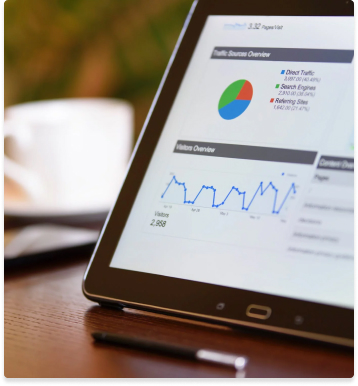
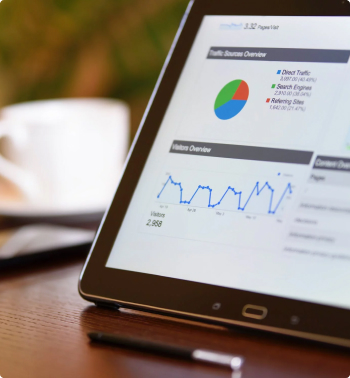
Fixed some bugs and updated styles for about us

diff --git a/docs/css/styles.min.css b/docs/css/styles.min.css
@@ -1,3 +1,3 @@
-@font-face{font-family:WorkSans;font-display:swap;src:url("../fonts/WorkSans/WorkSans-Light.woff") format("woff"),url("../fonts/WorkSans/WorkSans-Light.woff2") format("woff2"),url("../fonts/WorkSans/WorkSans-Light.ttf") format("truetype");font-weight:300}@font-face{font-family:WorkSans;font-display:swap;src:url("../fonts/WorkSans/WorkSans-Regular.woff") format("woff"),url("../fonts/WorkSans/WorkSans-Regular.woff2") format("woff2"),url("../fonts/WorkSans/WorkSans-Regular.ttf") format("truetype");font-weight:400}@font-face{font-family:WorkSans;font-display:swap;src:url("../fonts/WorkSans/WorkSans-Medium.woff") format("woff"),url("../fonts/WorkSans/WorkSans-Medium.woff2") format("woff2"),url("../fonts/WorkSans/WorkSans-Medium.ttf") format("truetype");font-weight:500}@font-face{font-family:WorkSans;font-display:swap;src:url("../fonts/WorkSans/WorkSans-SemiBold.woff") format("woff"),url("../fonts/WorkSans/WorkSans-SemiBold.woff2") format("woff2"),url("../fonts/WorkSans/WorkSans-SemiBold.ttf") format("truetype");font-weight:600}@font-face{font-family:WorkSans;font-display:swap;src:url("../fonts/WorkSans/WorkSans-Bold.woff") format("woff"),url("../fonts/WorkSans/WorkSans-Bold.woff2") format("woff2"),url("../fonts/WorkSans/WorkSans-Bold.ttf") format("truetype");font-weight:700}@font-face{font-family:Montserrat;font-display:swap;src:url("../fonts/Montserrat/Montserrat-Bold.woff") format("woff"),url("../fonts/Montserrat/Montserrat-Bold.woff2") format("woff2"),url("../fonts/Montserrat/Montserrat-Bold.ttf") format("truetype");font-weight:700}*,*:after,*:before{margin:0;padding:0;-webkit-box-sizing:border-box;box-sizing:border-box}body{margin:0;padding-bottom:33.64286em;min-height:100vh;font-size:14px;position:relative;line-height:1.85714em;font-family:'WorkSans', 'Roboto', 'Arial', sans-serif}@media only screen and (max-width: 1023px){body{padding-bottom:35.64286em}}@media only screen and (max-width: 767px){body{padding-bottom:33.28571em}}@media only screen and (max-width: 748px){body{padding-bottom:35.21429em}}@media only screen and (max-width: 710px){body{padding-bottom:42.07143em}}@media only screen and (max-width: 575px){body{padding-bottom:33.21429em}}@media only screen and (max-width: 530px){body{padding-bottom:34.5em}}.wrapper{display:-webkit-box;display:-webkit-flex;display:-ms-flexbox;display:flex;-webkit-box-align:center;-webkit-align-items:center;-ms-flex-align:center;align-items:center;-webkit-box-orient:horizontal;-webkit-box-direction:normal;-webkit-flex-flow:row wrap;-ms-flex-flow:row wrap;flex-flow:row wrap;max-width:81.42857em;-webkit-box-pack:justify;-webkit-justify-content:space-between;-ms-flex-pack:justify;justify-content:space-between;padding-right:1.07143em;padding-left:1.07143em;margin-left:auto;margin-right:auto}@media only screen and (max-width: 1199px){.wrapper{max-width:68.57143em}}@media only screen and (max-width: 1023px){.wrapper{max-width:51.42857em}}@media only screen and (max-width: 767px){.wrapper{max-width:100%}}.wrapper--upper-footer{padding-top:5.85714em;padding-bottom:5.85714em}@media only screen and (max-width: 710px){.wrapper--upper-footer{padding-top:2.85714em;padding-bottom:2.85714em}}@media only screen and (max-width: 575px){.wrapper--upper-footer{padding-top:0;padding-bottom:0}}.wrapper--bottom-footer{padding-top:1.42857em;padding-bottom:1.42857em;display:-webkit-box;display:-webkit-flex;display:-ms-flexbox;display:flex;-webkit-box-pack:justify;-webkit-justify-content:space-between;-ms-flex-pack:justify;justify-content:space-between}@media only screen and (max-width: 1023px){.wrapper--bottom-footer{-webkit-box-pack:center;-webkit-justify-content:center;-ms-flex-pack:center;justify-content:center;text-align:center}}img{max-width:100%;line-height:0}a{color:#fff;position:relative;text-decoration:none}a:before{width:0;height:2px;content:"";display:block;position:absolute;background-color:#2595fe;bottom:-.71429em;left:0;-webkit-transition-duration:.4s;-o-transition-duration:.4s;transition-duration:.4s;-webkit-transition-property:width;-o-transition-property:width;transition-property:width;-webkit-transition-timing-function:ease-in-out;-o-transition-timing-function:ease-in-out;transition-timing-function:ease-in-out}a:hover{text-decoration:none}a:hover:before{width:100%}ul,ol{padding-left:0;display:-webkit-box;display:-webkit-flex;display:-ms-flexbox;display:flex;list-style:none;-webkit-box-align:center;-webkit-align-items:center;-ms-flex-align:center;align-items:center;-webkit-box-orient:horizontal;-webkit-box-direction:normal;-webkit-flex-flow:row nowrap;-ms-flex-flow:row nowrap;flex-flow:row nowrap;-webkit-box-pack:center;-webkit-justify-content:center;-ms-flex-pack:center;justify-content:center}button{border:0;cursor:pointer;background-color:transparent}button:focus{outline:0}.button{background-color:#2595fe;border-radius:4px;-webkit-transition-duration:.4s;-o-transition-duration:.4s;transition-duration:.4s;-webkit-transition-property:background-color;-o-transition-property:background-color;transition-property:background-color;-webkit-transition-timing-function:ease-in-out;-o-transition-timing-function:ease-in-out;transition-timing-function:ease-in-out}.button:hover{background-color:#218bed}input,textarea,select,button{font:inherit}.sr-only{border:0;width:1px;padding:0;height:1px;margin:-1px;overflow:hidden;position:absolute;clip:rect(0 0 0 0)}.title{margin-top:0;margin-bottom:0;font-weight:500;text-transform:uppercase}.title--site-links,.title--subscribe,.title--location{font-size:1.28571em;margin-bottom:1em;color:#fff;letter-spacing:.00833em}@media only screen and (max-width: 575px){.title--site-links,.title--subscribe,.title--location{text-align:center;margin-bottom:.55556em}}.bg--dark{background-color:#242424}.bg--more-dark{background-color:#1a1a1a}header{position:relative}@media only screen and (max-width: 767px){header .wrapper{padding-top:1.42857em;padding-bottom:1.42857em}}footer{position:absolute;bottom:0;left:0;right:0}footer .footer-list{width:100%;-webkit-box-align:baseline;-webkit-align-items:baseline;-ms-flex-align:baseline;align-items:baseline;-webkit-box-pack:justify;-webkit-justify-content:space-between;-ms-flex-pack:justify;justify-content:space-between}@media only screen and (max-width: 710px){footer .footer-list{-webkit-flex-wrap:wrap;-ms-flex-wrap:wrap;flex-wrap:wrap;-webkit-box-pack:justify;-webkit-justify-content:space-between;-ms-flex-pack:justify;justify-content:space-between}footer .footer-list__item:nth-child(2){-webkit-box-ordinal-group:2;-webkit-order:1;-ms-flex-order:1;order:1;text-align:center;width:100%;margin-top:1.42857em}}@media only screen and (max-width: 575px){footer .footer-list{-webkit-box-orient:horizontal;-webkit-box-direction:normal;-webkit-flex-direction:row;-ms-flex-direction:row;flex-direction:row;-webkit-flex-wrap:wrap;-ms-flex-wrap:wrap;flex-wrap:wrap}footer .footer-list__item{width:100%;padding-top:.71429em;padding-bottom:.71429em}footer .footer-list__item:nth-child(2){margin-top:0}footer .footer-list__item:not(:first-child){border-top:1px solid #383838}}.logo-link{color:inherit;line-height:0}.logo-link:before{display:none}.logo-link__pic{max-width:13.35714em;height:6.07143em}@media only screen and (max-width: 767px){.logo-link__pic{max-width:8.57143em;height:1.14286em}}.nav__burger{display:none}@media only screen and (max-width: 767px){.nav__burger{display:inline-block;position:relative;width:2.14286em;height:1.14286em}.nav__burger:before{margin-top:-7px}.nav__burger:after{margin-top:5px}.nav__burger:before,.nav__burger:after{content:'';position:absolute;-webkit-transition:-webkit-transform .3s ease-in-out;transition:-webkit-transform .3s ease-in-out;-o-transition:transform .3s ease-in-out;transition:transform .3s ease-in-out;transition:transform .3s ease-in-out, -webkit-transform .3s ease-in-out}.nav__burger span,.nav__burger:before,.nav__burger:after{width:100%;height:2px;display:block;background-color:#fff}.nav__burger--active{width:2.14286em;height:1.14286em}.nav__burger--active span{display:none}.nav__burger--active:before{-webkit-transform:rotate(45deg);-ms-transform:rotate(45deg);transform:rotate(45deg)}.nav__burger--active:after{-webkit-transform:rotate(-45deg);-ms-transform:rotate(-45deg);transform:rotate(-45deg)}.nav__burger--active:before,.nav__burger--active:after{margin-top:0}}.nav__list{line-height:1.85714em}@media only screen and (max-width: 767px){.nav{line-height:0}}.list__item{font-size:1.28571em}.list__item:not(:last-child){margin-right:1.11111em}@media only screen and (max-width: 767px){.list__item{width:100%}.list__item:not(:last-child){margin-right:0}}.list__link{padding:0}.list__link:before{bottom:-.71429em}@media only screen and (max-width: 767px){.list__link{display:-webkit-box;display:-webkit-flex;display:-ms-flexbox;display:flex;width:100%;-webkit-box-pack:center;-webkit-justify-content:center;-ms-flex-pack:center;justify-content:center;padding:.55556em;border:1px solid #242424;-webkit-transition:background-color .3s ease-in-out;-o-transition:background-color .3s ease-in-out;transition:background-color .3s ease-in-out}.list__link:hover,.list__link--active{background-color:#242424;border:1px solid #1a1a1a}.list__link:before{display:none}}@media only screen and (max-width: 767px){.list{position:absolute;top:100%;left:-100%;width:100%;background-color:#1a1a1a;-webkit-box-orient:vertical;-webkit-box-direction:normal;-webkit-flex-flow:column nowrap;-ms-flex-flow:column nowrap;flex-flow:column nowrap;-webkit-box-pack:start;-webkit-justify-content:flex-start;-ms-flex-pack:start;justify-content:flex-start;-webkit-transition:left .3s ease-in-out;-o-transition:left .3s ease-in-out;transition:left .3s ease-in-out}.list--active{left:0}}.footer-list__item .nav{width:100%}.footer-list__item .nav__burger{display:none}.footer-list__item .nav__list{line-height:0}.footer-list__item .list{position:static;display:-webkit-inline-box;display:-webkit-inline-flex;display:-ms-inline-flexbox;display:inline-flex;-webkit-box-orient:vertical;-webkit-box-direction:normal;-webkit-flex-direction:column;-ms-flex-direction:column;flex-direction:column;background-color:transparent;-webkit-justify-content:space-around;-ms-flex-pack:distribute;justify-content:space-around;-webkit-box-align:start;-webkit-align-items:flex-start;-ms-flex-align:start;align-items:flex-start}@media only screen and (max-width: 575px){.footer-list__item .list{-webkit-box-orient:horizontal;-webkit-box-direction:normal;-webkit-flex-direction:row;-ms-flex-direction:row;flex-direction:row;-webkit-box-align:baseline;-webkit-align-items:baseline;-ms-flex-align:baseline;align-items:baseline;-webkit-box-pack:justify;-webkit-justify-content:space-between;-ms-flex-pack:justify;justify-content:space-between}}.footer-list__item .list__item{font-size:1em;width:auto}.footer-list__item .list__item:not(:last-child){margin-bottom:2.14286em;margin-right:0}@media only screen and (max-width: 575px){.footer-list__item .list__item:not(:last-child){margin-bottom:0}}.footer-list__item .list__link{display:inline-block;width:auto;border:0;padding:0;line-height:1;color:#fff;-webkit-transition:color .3s ease-in-out;-o-transition:color .3s ease-in-out;transition:color .3s ease-in-out}.footer-list__item .list__link:hover,.footer-list__item .list__link--active{color:#2595fe}.footer-list__item .list__link:hover{background-color:transparent;border:0}.footer-list__item .list__link:before{display:none}.subscribe__field{color:#242424;border-radius:4px;max-width:18.21429em;width:100%;padding:.64286em 1.07143em}.subscribe__field.placeholder{opacity:1;-webkit-transition:opacity .3s ease-in-out;-o-transition:opacity .3s ease-in-out;transition:opacity .3s ease-in-out}.subscribe__field:-moz-placeholder{opacity:1;-moz-transition:opacity .3s ease-in-out;transition:opacity .3s ease-in-out}.subscribe__field::-moz-placeholder{opacity:1;-moz-transition:opacity .3s ease-in-out;transition:opacity .3s ease-in-out}.subscribe__field:-ms-input-placeholder{opacity:1;-ms-transition:opacity .3s ease-in-out;transition:opacity .3s ease-in-out}.subscribe__field::-webkit-input-placeholder{opacity:1;-webkit-transition:opacity .3s ease-in-out;transition:opacity .3s ease-in-out}.subscribe__field:focus{outline:0}.subscribe__field:focus.placeholder{opacity:0}.subscribe__field:focus:-moz-placeholder{opacity:0}.subscribe__field:focus::-moz-placeholder{opacity:0}.subscribe__field:focus:-ms-input-placeholder{opacity:0}.subscribe__field:focus::-webkit-input-placeholder{opacity:0}@media only screen and (max-width: 575px){.subscribe__field{font-size:.78571em;padding:.27273em;margin:0 auto;display:block}}.subscribe__submit{font-size:1.28571em;max-width:14.16667em;width:100%;color:#fff;margin-top:1.88889em;padding-top:.61111em;padding-bottom:.61111em;letter-spacing:.00833em}@media only screen and (max-width: 710px){.subscribe__submit{margin-top:1.11111em}}@media only screen and (max-width: 575px){.subscribe__submit{font-size:1em;padding-top:.35714em;padding-bottom:.35714em;display:block;margin:1.42857em auto 0}}@media only screen and (max-width: 1023px){.subscribe{display:-webkit-box;display:-webkit-flex;display:-ms-flexbox;display:flex;-webkit-box-orient:vertical;-webkit-box-direction:normal;-webkit-flex-direction:column;-ms-flex-direction:column;flex-direction:column;-webkit-box-align:center;-webkit-align-items:center;-ms-flex-align:center;align-items:center;-webkit-box-pack:center;-webkit-justify-content:center;-ms-flex-pack:center;justify-content:center}}.location__address{font-size:1em;line-height:1.85714em;letter-spacing:.01071em;color:#fff;margin-bottom:2.5em}@media only screen and (max-width: 575px){.location__address{text-align:center;margin-bottom:.71429em}}.location__socials-list{display:-webkit-box;display:-webkit-flex;display:-ms-flexbox;display:flex;-webkit-box-align:baseline;-webkit-align-items:baseline;-ms-flex-align:baseline;align-items:baseline;-webkit-box-pack:start;-webkit-justify-content:flex-start;-ms-flex-pack:start;justify-content:flex-start}@media only screen and (max-width: 575px){.location__socials-list{-webkit-box-pack:center;-webkit-justify-content:center;-ms-flex-pack:center;justify-content:center}}.socials-list__item:not(:last-child){margin-right:1.28571em}.socials-list__link:before{display:none}.socials-list .icon{width:1.71429em;height:1.71429em;cursor:pointer;-webkit-transition:color .3s ease-in-out;-o-transition:color .3s ease-in-out;transition:color .3s ease-in-out}.socials-list .icon:hover{color:#2595fe}.copyright{font-size:.85714em;line-height:1.5em;color:#fff}@media only screen and (max-width: 1023px){.copyright{-webkit-box-ordinal-group:2;-webkit-order:1;-ms-flex-order:1;order:1;margin-top:.83333em}}.links-list__item:not(:last-child){margin-right:1.78571em;position:relative}.links-list__item:not(:last-child):after{content:"";display:block;position:absolute;height:1em;width:1px;background-color:#fff;right:-1em;top:50%;-webkit-transform:translateY(-50%);-ms-transform:translateY(-50%);transform:translateY(-50%)}.links-list__url{font-size:.85714em;-webkit-transition:color .3s ease-in-out;-o-transition:color .3s ease-in-out;transition:color .3s ease-in-out}.links-list__url:hover{color:#2595fe}.links-list__url:before{display:none}.to-top{position:fixed;right:1.42857em;bottom:-25vh;background-color:#242424;border-radius:50%;width:3.85714em;height:3.85714em;border:1px solid #fff;-webkit-transition:bottom .8s ease-in-out, opacity .3s ease-in-out;-o-transition:bottom .8s ease-in-out, opacity .3s ease-in-out;transition:bottom .8s ease-in-out, opacity .3s ease-in-out}.to-top:hover{opacity:.7;background-color:#242424}.to-top--active{bottom:1.42857em}.icon--to-top{width:2.07143em;height:1em;color:#fff}.about-us{padding-top:8.57143em;padding-bottom:12.78571em}.about-us__info{max-width:35em}.about-us__photo{max-width:25em}@media only screen and (max-width: 1023px){.about-us__photo{margin-bottom:1.07143em}}@media only screen and (max-width: 1023px){.about-us{text-align:center;-webkit-box-pack:center;-webkit-justify-content:center;-ms-flex-pack:center;justify-content:center;padding-top:5.71429em;padding-bottom:5.71429em}}@media only screen and (max-width: 575px){.about-us{padding-top:2.85714em;padding-bottom:2.85714em}}.info{margin-right:2.14286em}.info__title{font-size:2.57143em;margin-bottom:1.38889em}@media only screen and (max-width: 1023px){.info__title{margin-bottom:.41667em}}@media only screen and (max-width: 575px){.info__title{font-size:1.71429em;margin-bottom:.625em}}.info__desc{line-height:2.28571em;letter-spacing:.01071em;color:#242424;font-weight:300}@media only screen and (max-width: 575px){.info__desc{font-size:.85714em;line-height:2em}}@media only screen and (max-width: 1023px){.info{-webkit-box-ordinal-group:2;-webkit-order:1;-ms-flex-order:1;order:1}}
+@font-face{font-family:WorkSans;font-display:swap;src:url("../fonts/WorkSans/WorkSans-Light.woff") format("woff"),url("../fonts/WorkSans/WorkSans-Light.woff2") format("woff2"),url("../fonts/WorkSans/WorkSans-Light.ttf") format("truetype");font-weight:300}@font-face{font-family:WorkSans;font-display:swap;src:url("../fonts/WorkSans/WorkSans-Regular.woff") format("woff"),url("../fonts/WorkSans/WorkSans-Regular.woff2") format("woff2"),url("../fonts/WorkSans/WorkSans-Regular.ttf") format("truetype");font-weight:400}@font-face{font-family:WorkSans;font-display:swap;src:url("../fonts/WorkSans/WorkSans-Medium.woff") format("woff"),url("../fonts/WorkSans/WorkSans-Medium.woff2") format("woff2"),url("../fonts/WorkSans/WorkSans-Medium.ttf") format("truetype");font-weight:500}@font-face{font-family:WorkSans;font-display:swap;src:url("../fonts/WorkSans/WorkSans-SemiBold.woff") format("woff"),url("../fonts/WorkSans/WorkSans-SemiBold.woff2") format("woff2"),url("../fonts/WorkSans/WorkSans-SemiBold.ttf") format("truetype");font-weight:600}@font-face{font-family:WorkSans;font-display:swap;src:url("../fonts/WorkSans/WorkSans-Bold.woff") format("woff"),url("../fonts/WorkSans/WorkSans-Bold.woff2") format("woff2"),url("../fonts/WorkSans/WorkSans-Bold.ttf") format("truetype");font-weight:700}@font-face{font-family:Montserrat;font-display:swap;src:url("../fonts/Montserrat/Montserrat-Bold.woff") format("woff"),url("../fonts/Montserrat/Montserrat-Bold.woff2") format("woff2"),url("../fonts/Montserrat/Montserrat-Bold.ttf") format("truetype");font-weight:700}*{margin:0;padding:0;-webkit-box-sizing:border-box;box-sizing:border-box}body{margin:0;padding-bottom:33.64286em;min-height:100vh;font-size:14px;position:relative;line-height:1.85714em;font-family:'WorkSans', 'Roboto', 'Arial', sans-serif}@media only screen and (max-width: 1023px){body{padding-bottom:35.64286em}}@media only screen and (max-width: 767px){body{padding-bottom:33.28571em}}@media only screen and (max-width: 748px){body{padding-bottom:35.21429em}}@media only screen and (max-width: 710px){body{padding-bottom:42.07143em}}@media only screen and (max-width: 575px){body{padding-bottom:33.21429em}}@media only screen and (max-width: 530px){body{padding-bottom:34.5em}}.wrapper{display:-webkit-box;display:-webkit-flex;display:-ms-flexbox;display:flex;-webkit-box-align:center;-webkit-align-items:center;-ms-flex-align:center;align-items:center;-webkit-box-orient:horizontal;-webkit-box-direction:normal;-webkit-flex-flow:row wrap;-ms-flex-flow:row wrap;flex-flow:row wrap;max-width:81.42857em;-webkit-box-pack:justify;-webkit-justify-content:space-between;-ms-flex-pack:justify;justify-content:space-between;padding-right:1.07143em;padding-left:1.07143em;margin-left:auto;margin-right:auto}@media only screen and (max-width: 1199px){.wrapper{max-width:68.57143em}}@media only screen and (max-width: 1023px){.wrapper{max-width:51.42857em}}@media only screen and (max-width: 767px){.wrapper{max-width:100%}}.wrapper--upper-footer{padding-top:5.85714em;padding-bottom:5.85714em}@media only screen and (max-width: 710px){.wrapper--upper-footer{padding-top:2.85714em;padding-bottom:2.85714em}}@media only screen and (max-width: 575px){.wrapper--upper-footer{padding-top:0;padding-bottom:0}}.wrapper--bottom-footer{padding-top:1.42857em;padding-bottom:1.42857em;display:-webkit-box;display:-webkit-flex;display:-ms-flexbox;display:flex;-webkit-box-pack:justify;-webkit-justify-content:space-between;-ms-flex-pack:justify;justify-content:space-between}@media only screen and (max-width: 1023px){.wrapper--bottom-footer{-webkit-box-pack:center;-webkit-justify-content:center;-ms-flex-pack:center;justify-content:center;text-align:center}}img{max-width:100%}a{color:#fff;position:relative;text-decoration:none}a:before{width:0;height:2px;content:"";display:block;position:absolute;background-color:#2595fe;bottom:-.71429em;left:0;-webkit-transition-duration:.4s;-o-transition-duration:.4s;transition-duration:.4s;-webkit-transition-property:width;-o-transition-property:width;transition-property:width;-webkit-transition-timing-function:ease-in-out;-o-transition-timing-function:ease-in-out;transition-timing-function:ease-in-out}a:hover{text-decoration:none}a:hover:before{width:100%}ul,ol{padding-left:0;display:-webkit-box;display:-webkit-flex;display:-ms-flexbox;display:flex;list-style:none;-webkit-box-align:center;-webkit-align-items:center;-ms-flex-align:center;align-items:center;-webkit-box-orient:horizontal;-webkit-box-direction:normal;-webkit-flex-flow:row nowrap;-ms-flex-flow:row nowrap;flex-flow:row nowrap;-webkit-box-pack:center;-webkit-justify-content:center;-ms-flex-pack:center;justify-content:center}button{border:0;cursor:pointer;background-color:transparent}button:focus{outline:0}.button{background-color:#2595fe;border-radius:4px;-webkit-transition-duration:.4s;-o-transition-duration:.4s;transition-duration:.4s;-webkit-transition-property:background-color;-o-transition-property:background-color;transition-property:background-color;-webkit-transition-timing-function:ease-in-out;-o-transition-timing-function:ease-in-out;transition-timing-function:ease-in-out}.button:hover{background-color:#218bed}input,textarea,select,button{font:inherit}.sr-only{border:0;width:1px;padding:0;height:1px;margin:-1px;overflow:hidden;position:absolute;clip:rect(0 0 0 0)}.title{margin-top:0;margin-bottom:0;font-weight:500;text-transform:uppercase}.title--site-links,.title--subscribe,.title--location{font-size:1.28571em;margin-bottom:1em;color:#fff;letter-spacing:.00833em}@media only screen and (max-width: 575px){.title--site-links,.title--subscribe,.title--location{text-align:center;margin-bottom:.55556em}}.bg--dark{background-color:#242424}.bg--more-dark{background-color:#1a1a1a}header{position:relative}@media only screen and (max-width: 767px){header .wrapper{padding-top:1.42857em;padding-bottom:1.42857em}}footer{position:absolute;bottom:0;left:0;right:0}footer .footer-list{width:100%;-webkit-box-align:baseline;-webkit-align-items:baseline;-ms-flex-align:baseline;align-items:baseline;-webkit-box-pack:justify;-webkit-justify-content:space-between;-ms-flex-pack:justify;justify-content:space-between}@media only screen and (max-width: 710px){footer .footer-list{-webkit-flex-wrap:wrap;-ms-flex-wrap:wrap;flex-wrap:wrap;-webkit-box-pack:justify;-webkit-justify-content:space-between;-ms-flex-pack:justify;justify-content:space-between}footer .footer-list__item:nth-child(2){-webkit-box-ordinal-group:2;-webkit-order:1;-ms-flex-order:1;order:1;text-align:center;width:100%;margin-top:1.42857em}}@media only screen and (max-width: 575px){footer .footer-list{-webkit-box-orient:horizontal;-webkit-box-direction:normal;-webkit-flex-direction:row;-ms-flex-direction:row;flex-direction:row;-webkit-flex-wrap:wrap;-ms-flex-wrap:wrap;flex-wrap:wrap}footer .footer-list__item{width:100%;padding-top:.71429em;padding-bottom:.71429em}footer .footer-list__item:nth-child(2){margin-top:0}footer .footer-list__item:not(:first-child){border-top:1px solid #383838}}.logo-link{color:inherit;line-height:0}.logo-link:before{display:none}.logo-link__pic{max-width:13.35714em;height:6.07143em}@media only screen and (max-width: 767px){.logo-link__pic{max-width:8.57143em;height:1.14286em}}.nav__burger{display:none}@media only screen and (max-width: 767px){.nav__burger{display:inline-block;position:relative;width:2.14286em;height:1.14286em}.nav__burger:before{margin-top:-7px}.nav__burger:after{margin-top:5px}.nav__burger:before,.nav__burger:after{content:'';position:absolute;-webkit-transition:-webkit-transform .3s ease-in-out;transition:-webkit-transform .3s ease-in-out;-o-transition:transform .3s ease-in-out;transition:transform .3s ease-in-out;transition:transform .3s ease-in-out, -webkit-transform .3s ease-in-out}.nav__burger span,.nav__burger:before,.nav__burger:after{width:100%;height:2px;display:block;background-color:#fff}.nav__burger--active{width:2.14286em;height:1.14286em}.nav__burger--active span{display:none}.nav__burger--active:before{-webkit-transform:rotate(45deg);-ms-transform:rotate(45deg);transform:rotate(45deg)}.nav__burger--active:after{-webkit-transform:rotate(-45deg);-ms-transform:rotate(-45deg);transform:rotate(-45deg)}.nav__burger--active:before,.nav__burger--active:after{margin-top:0}}.nav__list{line-height:1.85714em}@media only screen and (max-width: 767px){.nav{line-height:0}}.list__item{font-size:1.28571em}.list__item:not(:last-child){margin-right:1.11111em}@media only screen and (max-width: 767px){.list__item{width:100%}.list__item:not(:last-child){margin-right:0}}.list__link{padding:0}.list__link:before{bottom:-.71429em}@media only screen and (max-width: 767px){.list__link{display:-webkit-box;display:-webkit-flex;display:-ms-flexbox;display:flex;width:100%;-webkit-box-pack:center;-webkit-justify-content:center;-ms-flex-pack:center;justify-content:center;padding:.55556em;border:1px solid #242424;-webkit-transition:background-color .3s ease-in-out;-o-transition:background-color .3s ease-in-out;transition:background-color .3s ease-in-out}.list__link:hover,.list__link--active{background-color:#242424;border:1px solid #1a1a1a}.list__link:before{display:none}}@media only screen and (max-width: 767px){.list{position:absolute;top:100%;left:-100%;width:100%;background-color:#1a1a1a;-webkit-box-orient:vertical;-webkit-box-direction:normal;-webkit-flex-flow:column nowrap;-ms-flex-flow:column nowrap;flex-flow:column nowrap;-webkit-box-pack:start;-webkit-justify-content:flex-start;-ms-flex-pack:start;justify-content:flex-start;-webkit-transition:left .3s ease-in-out;-o-transition:left .3s ease-in-out;transition:left .3s ease-in-out}.list--active{left:0}}.footer-list__item .nav{width:100%}.footer-list__item .nav__burger{display:none}.footer-list__item .nav__list{line-height:0}.footer-list__item .list{position:static;display:-webkit-inline-box;display:-webkit-inline-flex;display:-ms-inline-flexbox;display:inline-flex;-webkit-box-orient:vertical;-webkit-box-direction:normal;-webkit-flex-direction:column;-ms-flex-direction:column;flex-direction:column;background-color:transparent;-webkit-justify-content:space-around;-ms-flex-pack:distribute;justify-content:space-around;-webkit-box-align:start;-webkit-align-items:flex-start;-ms-flex-align:start;align-items:flex-start}@media only screen and (max-width: 575px){.footer-list__item .list{-webkit-box-orient:horizontal;-webkit-box-direction:normal;-webkit-flex-direction:row;-ms-flex-direction:row;flex-direction:row;-webkit-box-align:baseline;-webkit-align-items:baseline;-ms-flex-align:baseline;align-items:baseline;-webkit-box-pack:justify;-webkit-justify-content:space-between;-ms-flex-pack:justify;justify-content:space-between}}.footer-list__item .list__item{font-size:1em;width:auto}.footer-list__item .list__item:not(:last-child){margin-bottom:2.14286em;margin-right:0}@media only screen and (max-width: 575px){.footer-list__item .list__item:not(:last-child){margin-bottom:0}}.footer-list__item .list__link{display:inline-block;width:auto;border:0;padding:0;line-height:1;color:#fff;-webkit-transition:color .3s ease-in-out;-o-transition:color .3s ease-in-out;transition:color .3s ease-in-out}.footer-list__item .list__link:hover,.footer-list__item .list__link--active{color:#2595fe}.footer-list__item .list__link:hover{background-color:transparent;border:0}.footer-list__item .list__link:before{display:none}.subscribe__field{color:#242424;border-radius:4px;max-width:18.21429em;width:100%;padding:.64286em 1.07143em}.subscribe__field.placeholder{opacity:1;-webkit-transition:opacity .3s ease-in-out;-o-transition:opacity .3s ease-in-out;transition:opacity .3s ease-in-out}.subscribe__field:-moz-placeholder{opacity:1;-moz-transition:opacity .3s ease-in-out;transition:opacity .3s ease-in-out}.subscribe__field::-moz-placeholder{opacity:1;-moz-transition:opacity .3s ease-in-out;transition:opacity .3s ease-in-out}.subscribe__field:-ms-input-placeholder{opacity:1;-ms-transition:opacity .3s ease-in-out;transition:opacity .3s ease-in-out}.subscribe__field::-webkit-input-placeholder{opacity:1;-webkit-transition:opacity .3s ease-in-out;transition:opacity .3s ease-in-out}.subscribe__field:focus{outline:0}.subscribe__field:focus.placeholder{opacity:0}.subscribe__field:focus:-moz-placeholder{opacity:0}.subscribe__field:focus::-moz-placeholder{opacity:0}.subscribe__field:focus:-ms-input-placeholder{opacity:0}.subscribe__field:focus::-webkit-input-placeholder{opacity:0}@media only screen and (max-width: 575px){.subscribe__field{font-size:.78571em;padding:.27273em;margin:0 auto;display:block}}.subscribe__submit{font-size:1.28571em;max-width:14.16667em;width:100%;color:#fff;margin-top:1.88889em;padding-top:.61111em;padding-bottom:.61111em;letter-spacing:.00833em}@media only screen and (max-width: 710px){.subscribe__submit{margin-top:1.11111em}}@media only screen and (max-width: 575px){.subscribe__submit{font-size:1em;padding-top:.35714em;padding-bottom:.35714em;display:block;margin:1.42857em auto 0}}@media only screen and (max-width: 1023px){.subscribe{display:-webkit-box;display:-webkit-flex;display:-ms-flexbox;display:flex;-webkit-box-orient:vertical;-webkit-box-direction:normal;-webkit-flex-direction:column;-ms-flex-direction:column;flex-direction:column;-webkit-box-align:center;-webkit-align-items:center;-ms-flex-align:center;align-items:center;-webkit-box-pack:center;-webkit-justify-content:center;-ms-flex-pack:center;justify-content:center}}.location__address{font-size:1em;line-height:1.85714em;letter-spacing:.01071em;color:#fff;margin-bottom:2.5em}@media only screen and (max-width: 575px){.location__address{text-align:center;margin-bottom:.71429em}}.location__socials-list{display:-webkit-box;display:-webkit-flex;display:-ms-flexbox;display:flex;-webkit-box-align:baseline;-webkit-align-items:baseline;-ms-flex-align:baseline;align-items:baseline;-webkit-box-pack:start;-webkit-justify-content:flex-start;-ms-flex-pack:start;justify-content:flex-start}@media only screen and (max-width: 575px){.location__socials-list{-webkit-box-pack:center;-webkit-justify-content:center;-ms-flex-pack:center;justify-content:center}}.socials-list__item:not(:last-child){margin-right:1.28571em}.socials-list__link:before{display:none}.socials-list .icon{width:1.71429em;height:1.71429em;cursor:pointer;-webkit-transition:color .3s ease-in-out;-o-transition:color .3s ease-in-out;transition:color .3s ease-in-out}.socials-list .icon:hover{color:#2595fe}.copyright{font-size:.85714em;line-height:1.5em;color:#fff}@media only screen and (max-width: 1023px){.copyright{-webkit-box-ordinal-group:2;-webkit-order:1;-ms-flex-order:1;order:1;margin-top:.83333em}}.links-list__item:not(:last-child){margin-right:1.78571em;position:relative}.links-list__item:not(:last-child):after{content:"";display:block;position:absolute;height:1em;width:1px;background-color:#fff;right:-1em;top:50%;-webkit-transform:translateY(-50%);-ms-transform:translateY(-50%);transform:translateY(-50%)}.links-list__url{font-size:.85714em;-webkit-transition:color .3s ease-in-out;-o-transition:color .3s ease-in-out;transition:color .3s ease-in-out}.links-list__url:hover{color:#2595fe}.links-list__url:before{display:none}.to-top{position:fixed;right:1.42857em;bottom:-25vh;background-color:#242424;border-radius:50%;width:3.85714em;height:3.85714em;border:1px solid #fff;-webkit-transition:bottom .8s ease-in-out, opacity .3s ease-in-out;-o-transition:bottom .8s ease-in-out, opacity .3s ease-in-out;transition:bottom .8s ease-in-out, opacity .3s ease-in-out}.to-top:hover{opacity:.7;background-color:#242424}.to-top--active{bottom:1.42857em}.icon--to-top{width:2.07143em;height:1em;color:#fff}.about-us{padding-top:8.57143em;padding-bottom:12.78571em}.about-us__info{max-width:35em}.about-us__photo{max-width:25.57143em;border-radius:4px;line-height:0;-webkit-box-shadow:0 8px 10px -5px #242424;box-shadow:0 8px 10px -5px #242424}@media only screen and (max-width: 1023px){.about-us__photo{margin-bottom:1.07143em}}@media only screen and (max-width: 1023px){.about-us{text-align:center;-webkit-box-pack:center;-webkit-justify-content:center;-ms-flex-pack:center;justify-content:center;padding-top:5.71429em;padding-bottom:5.71429em}}@media only screen and (max-width: 575px){.about-us{padding-top:2.85714em;padding-bottom:2.85714em}}.info{margin-right:2.14286em}.info__title{font-size:2.57143em;margin-bottom:1.38889em}@media only screen and (max-width: 1023px){.info__title{margin-bottom:.41667em}}@media only screen and (max-width: 575px){.info__title{font-size:1.71429em;margin-bottom:.625em}}.info__desc{line-height:2.28571em;letter-spacing:.01071em;color:#242424;font-weight:300}@media only screen and (max-width: 575px){.info__desc{font-size:.85714em;line-height:2em}}@media only screen and (max-width: 1023px){.info{-webkit-box-ordinal-group:2;-webkit-order:1;-ms-flex-order:1;order:1}}
 
 /*# sourceMappingURL=styles.min.css.map */

diff --git a/app/components/sections/about-us/_about-us.scss b/app/components/sections/about-us/_about-us.scss
@@ -7,7 +7,10 @@
   }
 
   &__photo {
-    max-width: em(350, $fs);
+    max-width: em(358, $fs);
+    border-radius: 4px;
+    line-height: 0;
+    box-shadow: 0 8px 10px -5px $secondary;
     @include media(1023) {
       margin-bottom: em(15, $fs);
     }

diff --git a/app/assets/scss/_global.scss b/app/assets/scss/_global.scss
@@ -17,9 +17,7 @@
   font-weight: 700;
 }
 
-*,
-*:after,
-*:before {
+* {
   margin: 0;
   padding: 0;
   box-sizing: border-box;
@@ -100,7 +98,6 @@ body {
 
 img {
   max-width: 100%;
-  line-height: 0;
 }
 
 a {
